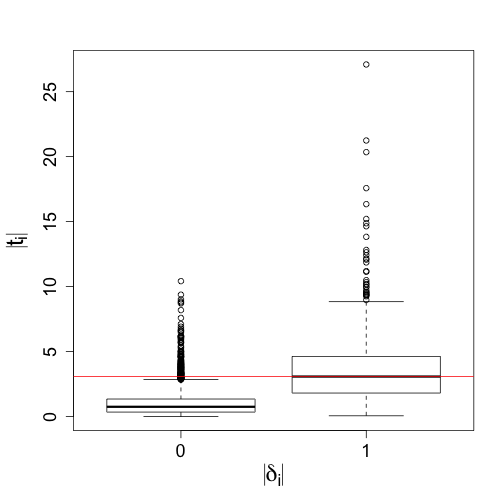
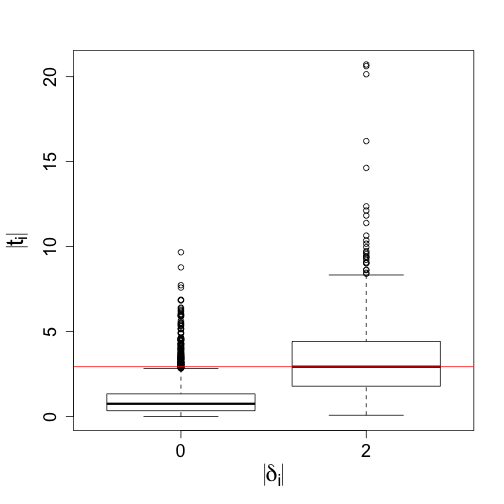
update

diff --git a/index.html b/index.html
@@ -131,13 +131,14 @@ X_{ij} &\sim N(\mu_{ij}, \sigma_i) \\
   <ul>
 <li>Find a set of genes for which \(\delta_i \ne 0\)</li>
 <li>And which obeys false discovery rate bounds</li>
-<li>For G genes in our set at FDR threshold z</li>
+<li>For genes in our set G at FDR threshold z</li>
 </ul>
 
 <p><br></p>
 
 <p>\[
-E(\sum_i 1_{ \{\delta_i = 0\} }) \le G z
+E \left( \sum\nolimits_{i \in G} 1_{ \{\delta_i = 0\} } \right) \le
+\left\vert G \right\vert z
 \]</p>
 
 </section>
@@ -147,7 +148,7 @@ E(\sum_i 1_{ \{\delta_i = 0\} }) \le G z
 <li>Can we accomplish this if all \(\delta_i \ne 0\)
 
 <ul>
-<li>no, because methods rely on computational normalization</li>
+<li>no, because methods often rely on global scaling normalization</li>
 </ul></li>
 <li>Are any \(\delta_i = 0\)? 
 
@@ -186,8 +187,8 @@ X_{ij} &\sim N(\mu_{ij}, \sigma_i) \\
 <ul>
 <li>N = 5000, M = 6</li>
 <li>\(\delta_i = 0\) for 90%</li>
-<li>\(\delta_i = \pm1\) for 10%</li>
-<li>\(\sigma_i \sim \Gamma(5,10)\) </li>
+<li>\(\delta_i = \pm2\) for 10%</li>
+<li>\(\sigma_i \sim \Gamma(10,10)\) </li>
 </ul>
 
 </section>
@@ -203,7 +204,11 @@ X_{ij} &\sim N(\mu_{ij}, \sigma_i) \\
 </section>
 <section class='' data-state='' id='slide-17'>
   <h3>Just looking at ranks</h3>
-  <p><img src="assets/fig/roc-1.png" alt="plot of chunk roc"></p>
+  <ul>
+<li>Black = t-statistics, grey = random order, X = nominal FDR 20%</li>
+</ul>
+
+<p><img src="assets/fig/roc-1.png" alt="plot of chunk roc"></p>
 
 </section>
 <section class='' data-state='' id='slide-18'>
@@ -325,10 +330,72 @@ variance of coefficients)</li>
 <section class='' data-state='' id='slide-30'>
   <h3>Rank is not the full picture</h3>
   <ul>
-<li>The limma estimator is also controlling degrees of freedom gained
-via the moderation</li>
+<li>limma also estimating degrees of freedom gained</li>
+<li>X = nominal FDR 20%</li>
 </ul>
 
+<p><img src="assets/fig/roc4-1.png" alt="plot of chunk roc4"></p>
+
+</section>
+<section class='' data-state='' id='slide-31'>
+  <h3>RNA-seq: counting molecules</h3>
+  <p><img src="img/illumina.png"></p>
+
+</section>
+<section class='' data-state='' id='slide-32'>
+  <h3>RNA-seq: counting molecules</h3>
+  <pre><code>@SRR1265495.1 1/1
+CTTTGCCCGCGTGTCAGACTCCATCCCTCCTCTGCCGCCACCGCAGCAGCCACAGGCAGAGGAGGACGAGGACGACTGGGAATCGTAGGGGGCTCCATGAC
++
+CCCFFFFFHGFHHHIJJIJIJJIJJJJJJJGIIJJJIJJJJJJJJEFHDEFFFEECDDDBDD?BB?B@BDDD@;9&lt;BBBDBCB@A2&lt;?BDDDBDBD@CDDC
+@SRR1265495.2 2/1
+CCTGGCTGTGTCCATGTCAGAGCAATGGCCCAAGTCTGGGTCTGGGGGGGAAGGTGTCATGGAGCCCCCTACGATTCCCAGTCGTCCTCGTCCTCCTCTGC
++
+@C@FFFDFHHHHGGIIAGHI9GIIIIIGIIIIIGI@@FHGDDDH@GGIBB05?B&gt;ACCCCCCCB&lt;?BBCCBBBBCBCDC3&gt;AC&lt;BB&lt;?CBBB?&lt;@CCCA:@
+@SRR1265495.3 3/1
+CTGTGTCCATGTCAGAGCAATGGCCCAAGTCTGGGTCTGGGGGGGAAGGTGTCATGGAGCCCCCTACGATTCCCAGTCGTCCTCGTCCTCCTCTGCCTGTG
++
+@C@DFFFFGGHDHIIEGDHCGGHIJGEHIIJIIJIEEHGIGEGDDB@@@CDDDDEDDDDDBDDDDDDDDDBCCDDCCDBBDDDDDB@?@DDDDCDDCC@4&gt;
+</code></pre>
+
+<p>for ~30 million reads (often pairs of reads)</p>
+
+</section>
+<section class='' data-state='' id='slide-33'>
+  <h3>RNA-seq: align to genome or transcriptome</h3>
+  <p><img width=300 src="img/google.png"></p>
+
+<p><img src="img/blat.png"></p>
+
+</section>
+<section class='' data-state='' id='slide-34'>
+  <h3>RNA-seq: counting molecules</h3>
+  <ul>
+<li>Now for each gene and each sample we can obtain a <em>count</em>
+or <em>estimated count</em> of fragments</li>
+<li>Why estimated? Because some fragments cannot be uniquely associated
+with genes or isoforms</li>
+<li>Clever and fast algorithms for probabalistically assigning these</li>
+<li>Assume we have integer counts \(K_{ij}\) of unique fragments or from 
+rounding estimated counts</li>
+</ul>
+
+</section>
+<section class='' data-state='' id='slide-35'>
+  <h3>Counts</h3>
+  <ul>
+<li>Either model counts via count distributions and inference with GLM</li>
+<li>Learn weights associated with log counts</li>
+</ul>
+
+</section>
+<section class='' data-state='' id='slide-36'>
+  <h3>Negative Binomial / Gamma Poisson</h3>
+  
+</section>
+<section class='' data-state='' id='slide-37'>
+  <h3>Moderation of dispersion</h3>
+  
 </section>
     </div>
   </div>

diff --git a/index.md b/index.md
@@ -128,12 +128,13 @@ $$
 
 * Find a set of genes for which $\delta_i \ne 0$
 * And which obeys false discovery rate bounds
-* For G genes in our set at FDR threshold z
+* For genes in our set G at FDR threshold z
 
 <br>
 
 $$
-E(\sum_i 1_{ \{\delta_i = 0\} }) \le G z
+E \left( \sum\nolimits_{i \in G} 1_{ \{\delta_i = 0\} } \right) \le
+\left\vert G \right\vert z
 $$
 
 ---
@@ -141,7 +142,7 @@ $$
 ### Is this realistic?
 
 * Can we accomplish this if all $\delta_i \ne 0$
-  - no, because methods rely on computational normalization
+  - no, because methods often rely on global scaling normalization
 * Are any $\delta_i = 0$? 
   - maybe not, but many are very small for controlled experiment
 
@@ -171,8 +172,8 @@ $$
 
 * N = 5000, M = 6
 * $\delta_i = 0$ for 90%
-* $\delta_i = \pm1$ for 10%
-* $\sigma_i \sim \Gamma(5,10)$ 
+* $\delta_i = \pm2$ for 10%
+* $\sigma_i \sim \Gamma(10,10)$ 
 
 ---
 
@@ -189,6 +190,8 @@ $$
 ---
 
 ### Just looking at ranks
+
+* Black = t-statistics, grey = random order, X = nominal FDR 20%
 
 ![plot of chunk roc](assets/fig/roc-1.png)
 
@@ -319,5 +322,71 @@ location of *shrinkage* or *moderation*
 
 ### Rank is not the full picture
 
-* The limma estimator is also controlling degrees of freedom gained
-  via the moderation
+* limma also estimating degrees of freedom gained
+* X = nominal FDR 20%
+
+![plot of chunk roc4](assets/fig/roc4-1.png)
+
+
+---
+
+### RNA-seq: counting molecules
+
+<img src="img/illumina.png">
+
+---
+
+### RNA-seq: counting molecules
+
+```
+@SRR1265495.1 1/1
+CTTTGCCCGCGTGTCAGACTCCATCCCTCCTCTGCCGCCACCGCAGCAGCCACAGGCAGAGGAGGACGAGGACGACTGGGAATCGTAGGGGGCTCCATGAC
++
+CCCFFFFFHGFHHHIJJIJIJJIJJJJJJJGIIJJJIJJJJJJJJEFHDEFFFEECDDDBDD?BB?B@BDDD@;9<BBBDBCB@A2<?BDDDBDBD@CDDC
+@SRR1265495.2 2/1
+CCTGGCTGTGTCCATGTCAGAGCAATGGCCCAAGTCTGGGTCTGGGGGGGAAGGTGTCATGGAGCCCCCTACGATTCCCAGTCGTCCTCGTCCTCCTCTGC
++
+@C@FFFDFHHHHGGIIAGHI9GIIIIIGIIIIIGI@@FHGDDDH@GGIBB05?B>ACCCCCCCB<?BBCCBBBBCBCDC3>AC<BB<?CBBB?<@CCCA:@
+@SRR1265495.3 3/1
+CTGTGTCCATGTCAGAGCAATGGCCCAAGTCTGGGTCTGGGGGGGAAGGTGTCATGGAGCCCCCTACGATTCCCAGTCGTCCTCGTCCTCCTCTGCCTGTG
++
+@C@DFFFFGGHDHIIEGDHCGGHIJGEHIIJIIJIEEHGIGEGDDB@@@CDDDDEDDDDDBDDDDDDDDDBCCDDCCDBBDDDDDB@?@DDDDCDDCC@4>
+```
+
+for ~30 million reads (often pairs of reads)
+
+---
+
+### RNA-seq: align to genome or transcriptome
+
+<img width=300 src="img/google.png">
+
+<img src="img/blat.png">
+
+---
+
+### RNA-seq: counting molecules
+
+* Now for each gene and each sample we can obtain a *count*
+  or *estimated count* of fragments
+* Why estimated? Because some fragments cannot be uniquely associated
+  with genes or isoforms
+* Clever and fast algorithms for probabalistically assigning these
+* Assume we have integer counts $K_{ij}$ of unique fragments or from 
+  rounding estimated counts
+
+---
+
+### Counts
+
+* Either model counts via count distributions and inference with GLM
+* Learn weights associated with log counts
+
+---
+
+### Negative Binomial / Gamma Poisson
+
+---
+
+### Moderation of dispersion
+
